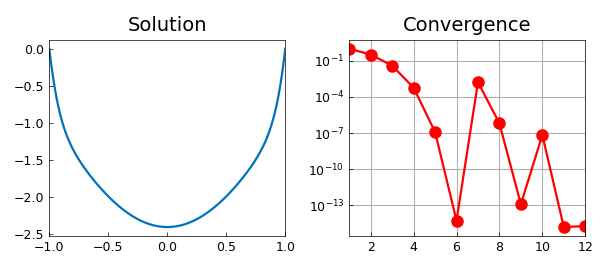
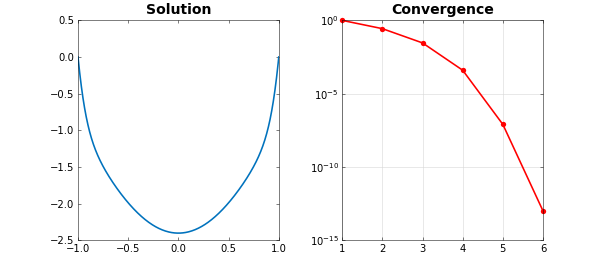
Qualify Carrier source output and figures on CPU
Restore the actual Newton table and all three source solves. Publish figures rendered from retained numerical arrays and record matched pinned MATLAB evidence and remaining historical raster differences.

Changed region(s): [[0.03, 0.0, 0.99, 0.9481], [0.09, 0.0, 0.45, 0.1185], [0.03, 0.7111, 0.15, 0.7704]]

diff --git a/examples/ode-nonlin/carrier.py b/examples/ode-nonlin/carrier.py
@@ -15,9 +15,9 @@ Copyright by The University of Oxford and The Chebfun Developers.
 import matplotlib
 
 matplotlib.use("Agg")
+import json
 import os
 import sys
-import warnings
 
 import matplotlib.pyplot as plt
 import numpy as np
@@ -25,8 +25,9 @@ import numpy as np
 sys.path.insert(0, os.path.join(os.path.dirname(__file__), '..', '..', 'src'))
 
 import chebfunjax as cj
+from chebfunjax.chebpref import ChebopPref
 from chebfunjax.operators.chebop import Chebop
-from chebfunjax.plotting import chebfun_style, matlab_plot
+from chebfunjax.plotting import _source_plot_line_and_points, chebfun_style, matlab_plot
 from chebfunjax.plotting import save_chebfun_figure as _savefig
 
 chebfun_style()
@@ -36,19 +37,88 @@ _IMG = os.path.join(_HERE, '..', '..', 'docs', 'images', 'ode-nonlin')
 FIG = [0]
 
 
-def _save(u, nrmdu):
+def _output_slot(number):
+    if os.environ.get("CHEBFUNJAX_OUTPUT_SLOTS") == "1":
+        print(f"@@CHEBFUNJAX_OUTPUT_SLOT:{number}@@", flush=True)
+
+
+def _capture_plain(value):
+    if isinstance(value, dict):
+        return {str(k): _capture_plain(v) for k, v in value.items()}
+    if isinstance(value, (tuple, list)):
+        return [_capture_plain(v) for v in value]
+    if isinstance(value, np.generic):
+        return _capture_plain(value.item())
+    if hasattr(value, "dtype"):
+        return _capture_plain(np.asarray(value).tolist())
+    if isinstance(value, complex):
+        return {"real": value.real, "imag": value.imag}
+    return value
+
+
+def _capture_solution(u, nrmdu, info, fig, axs):
+    root = os.environ.get("CHEBFUNJAX_CAPTURE_DIR")
+    if not root:
+        return
+    os.makedirs(root, exist_ok=True)
+    arrays = {"domain": np.asarray(tuple(u.domain)), "nrmdu": np.asarray(nrmdu),
+              "point_values": np.asarray(u.point_values)}
+    stored = getattr(u, "_point_values", None)
+    if stored is not None:
+        arrays["stored_point_values"] = np.asarray(stored)
+    for k, piece in enumerate(u.funs):
+        arrays[f"coeffs_{k}"] = np.asarray(piece.tech.coeffs)
+        arrays[f"interval_{k}"] = np.asarray(piece.interval)
+    for a, ax in enumerate(axs):
+        for k, artist in enumerate(ax.lines):
+            arrays[f"artist_{a}_{k}_x"] = np.asarray(artist.get_xdata())
+            arrays[f"artist_{a}_{k}_y"] = np.asarray(artist.get_ydata())
+    stem = os.path.join(root, f"Carrier_{FIG[0]:02d}")
+    np.savez(stem + ".npz", **arrays)
+    metadata = {"point_values_override": stored is not None,
+                "is_transposed": bool(u.is_transposed), "info": info,
+                "repr": repr(u), "fig_inches": fig.get_size_inches(),
+                "axes": [{"position": ax.get_position().bounds,
+                          "xlim": ax.get_xlim(), "ylim": ax.get_ylim(),
+                          "yscale": ax.get_yscale()} for ax in axs]}
+    with open(stem + ".json", "w") as handle:
+        json.dump(_capture_plain(metadata), handle, indent=2)
+
+
+def _carrier_page_layout(axs, count):
+    """Carrier cached-page subplot geometry/limits; not general autoscaling."""
+    for ax, left in zip(axs, (0.13, 0.570340909090909)):
+        ax.set_position((left, 0.11, 0.334659090909091, 0.815))
+        ax.tick_params(direction="in", top=True, right=True, labelsize=10)
+    axs[0].set_xlim(-1, 1)
+    axs[0].set_xticks(np.arange(-1, 1.1, .5))
+    axs[0].set_ylim((-2.5, .5) if count == 6 else (-2, 2))
+    axs[0].set_yticks(np.arange(-2.5, .6, .5) if count == 6 else np.arange(-2, 2.1, .5))
+    axs[0].grid(False)
+    axs[1].set_xlim(1, count)
+    axs[1].set_xticks(np.arange(1, 7) if count == 6 else np.arange(2, count + 1, 2))
+    axs[1].set_ylim((1e-15, 1) if count == 6 else (1e-15, 1e5))
+    axs[1].set_yticks([1e-15, 1e-10, 1e-5, 1] + ([] if count == 6 else [1e5]))
+    axs[1].grid(True, which="major", color="#d9d9d9", linewidth=.6)
+    axs[1].grid(False, which="minor")
+
+
+def _save(u, nrmdu, *, info=None):
     FIG[0] += 1
-    fig, axs = plt.subplots(1, 2)
+    fig, axs = plt.subplots(1, 2, figsize=(600 / 72, 270 / 72), dpi=72)
     matlab_plot(u, ax=axs[0], lw=1.6)
-    axs[0].set_title("Solution", fontsize=14)
-    axs[1].semilogy(np.arange(1, len(nrmdu) + 1), nrmdu, '.-r',
-                    lw=1.6, ms=16)
-    axs[1].set_title("Convergence", fontsize=14)
+    axs[0].set_title("Solution", fontsize=14, fontweight="bold")
+    axs[1].set_yscale("log")
+    steps = np.arange(1, len(nrmdu) + 1)
+    _source_plot_line_and_points(axs[1], steps, nrmdu, steps, nrmdu,
+                                 '.-r', {'linewidth': 1.6, 'markersize': 16})
+    axs[1].set_title("Convergence", fontsize=14, fontweight="bold")
     axs[1].set_xlim(1, len(nrmdu))
     axs[1].grid(True)
     fig.set_facecolor("white")
-    fig.tight_layout()
-    _savefig(fig, os.path.join(_IMG, f"Carrier_{FIG[0]:02d}.png"))
+    _carrier_page_layout(axs, len(nrmdu))
+    _capture_solution(u, nrmdu, info, fig, axs)
+    _savefig(fig, os.path.join(_IMG, f"Carrier_{FIG[0]:02d}.png"), dpi=72)
     plt.close(fig)
 
 
@@ -59,7 +129,6 @@ def _show_accuracy(N, u):
 
 def run():
     os.makedirs(_IMG, exist_ok=True)
-    warnings.filterwarnings("ignore")
 
     N = Chebop(lambda x, u: 0.01 * u.diff(2) + 2 * (1 - x ** 2) * u + u ** 2,
                domain=(-1, 1))
@@ -67,24 +136,28 @@ def run():
     x = cj.chebfun('x')
     N.init = 2 * (x ** 2 - 1)
 
-    # cheboppref.setDefaults('display','iter'): our Chebop has no
-    # Newton iteration display, so MATLAB's iteration table is not printed.
+    ChebopPref.setDefaults("display", "iter")
+    _output_slot(1)
     u, info = N.solvebvp(1)
     nrmdu = info["normDelta"]
-    _save(u, nrmdu)
+    _save(u, nrmdu, info=info)
+    _output_slot(2)
     _show_accuracy(N, u)
 
     N.init = 2 * (x ** 2 - 1) * (1 - 2 / (1 + 20 * x ** 2))
+    ChebopPref.setDefaults("display", "off")
     u, info = N.solvebvp(1)
     nrmdu = info["normDelta"]
-    _save(u, nrmdu)
+    _save(u, nrmdu, info=info)
+    _output_slot(3)
     _show_accuracy(N, u)
 
     N.lbc = 1
     N.rbc = lambda u: u.diff() + u
     u, info = N.solvebvp(1)
     nrmdu = info["normDelta"]
-    _save(u, nrmdu)
+    _save(u, nrmdu, info=info)
+    _output_slot(4)
     _show_accuracy(N, u)
 
 

diff --git a/scripts/gen_example_pages.py b/scripts/gen_example_pages.py
@@ -229,7 +229,7 @@ def render(root, cat: str, stem: str, ours: list[str] | None):
     walk(root)
     chunks = align_outputs(ref_blocks, ours, require_slots=(cat, stem) in {
         ("ode-nonlin", "DelayDifferentialEquations"),
-        ("linalg", "SOR"), ("ode-nonlin", "GulfStream"),
+        ("linalg", "SOR"), ("ode-nonlin", "GulfStream"), ("ode-nonlin", "Carrier"),
     })
     for idx, k in pending:
         if ours is not None and not chunks[k] and ref_blocks[k] and \

diff --git a/docs/examples/ode-nonlin/Carrier.md b/docs/examples/ode-nonlin/Carrier.md
@@ -40,7 +40,19 @@ xlim([1 length(nrmdu)]), grid on
 ```
 
 ```text
-(no matching output)
+Iter.   || du ||   Contraction    stepsize   len(du)   len(u)
+--------------------------------------------------------------
+ 01     9.78e-01     6.68e-01      1.0000      37        37
+ 02     2.67e-01     8.70e-02      1.0000      53        53
+ 03     2.85e-02     1.07e-01      1.0000      51        53
+ 04     3.92e-04     1.38e-02      1.0000      51        53
+ 05     7.98e-08     2.03e-04      1.0000      37        53
+ 06     1.01e-13     1.26e-06      1.0000       1        53
+--------------------------------------------------------------
+Newton's method converged in 6 iterations.
+Discretization basis used: Values.
+Final error estimate: 1.01e-13 (differential equation)
+                      0.00e+00 (boundary conditions).
 ```
 
 ![Carrier figure 01](../../images/ode-nonlin/Carrier_01.png)
@@ -53,7 +65,7 @@ accuracy = norm(N(u)-1)
 
 ```text
 accuracy =
-     1.815537191070530e-13
+     3.959290092139387e-11
 ```
 
 Running from a different initial guess gives a different solution:
@@ -71,7 +83,7 @@ accuracy = norm(N(u)-1)
 
 ```text
 accuracy =
-     1.708015855409538e-12
+     4.374437912494763e-10
 ```
 
 ![Carrier figure 02](../../images/ode-nonlin/Carrier_02.png)
@@ -97,7 +109,7 @@ accuracy = norm(N(u)-1)
 
 ```text
 accuracy =
-     9.097829459844235e-12
+     2.340740805910356e-10
 ```
 
 ![Carrier figure 03](../../images/ode-nonlin/Carrier_03.png)
